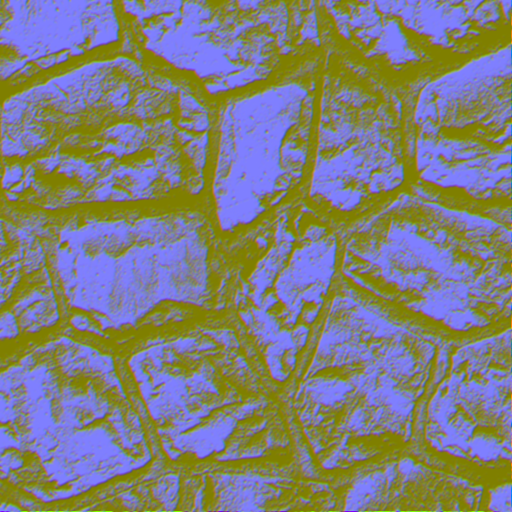
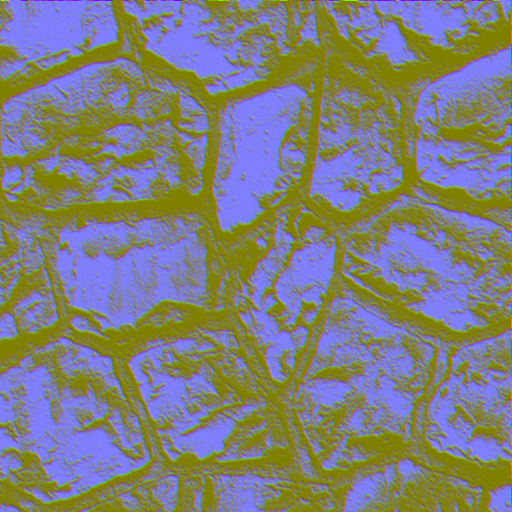
fixed inconnect dhdv value in gradient.cs added tools/codelab/extract_alpha.cs for extract alpha channel to rgb channel fixed incorrect links in index.html added basic parallax effect support in demo_derivative_maps.html

Changed region(s): [[0.0, 0.0, 1.0, 1.0], [0.0938, 0.0, 0.125, 0.0312]]

diff --git a/public/exp3/demo_derivative_maps.html b/public/exp3/demo_derivative_maps.html
@@ -6,7 +6,7 @@
 </head>
 <body>
     <div class="exp3.info">
-    Derivative Maps based on <a class="exp3.link" href="http://www.rorydriscoll.com/2012/01/11/derivative-maps/">rory's</a> blog post.
+    Derivative (with Parallax) Maps based on <a class="exp3.link" href="http://www.rorydriscoll.com/2012/01/11/derivative-maps/">rory's</a> blog post.
 <pre>
 Controls:
 - Rotate : Mouse Left Button
@@ -28,6 +28,7 @@ function Config()
 {
     this.bumpness = 8.0;
     this.specular = true;
+    this.parallax = true;
     this.texture = 0;
     this.mesh = 0;
     
@@ -35,6 +36,18 @@ function Config()
     
     var f;
     
+    f = gui.addFolder( "Material" );
+    f.add( this, "texture", { pyramids: 0, brick: 1, wall002: 2 } )
+        .onFinishChange( function( val ) { material.uniforms.heightMap.value = textures[val]; } );
+    f.add( this, "bumpness", 1.0, 16.0 ).step( 0.5 )
+        .onChange( function( val ) { material.uniforms.bumpness.value = val; } );
+    f.add( this, "parallax" )
+        .onChange( function( val ) { material.uniforms.useParallax.value = val ? 1.0 : 0.0; } );
+    f.add( this, "specular" )
+        .onChange( function( val ) { material.uniforms.useSpecular.value = val ? 1.0 : 0.0; } );
+    
+    f.open();
+
     f = gui.addFolder( "Scene" )
     f.add( this, "mesh", { cube: 0, cone: 1, sphere: 2,  } )
         .onFinishChange( function( val ) { 
@@ -44,16 +57,6 @@ function Config()
     
     f.open();
     
-    f = gui.addFolder( "Material" );
-    f.add( this, "texture", { pyramids: 0, wall002: 1,  } )
-        .onFinishChange( function( val ) { material.uniforms.heightMap.value = textures[val]; } );
-    f.add( this, "bumpness", 1.0, 16.0 ).step( 0.5 )
-        .onChange( function( val ) { material.uniforms.bumpness.value = val; } );
-    f.add( this, "specular" )
-        .onChange( function( val ) { material.uniforms.specular.value = val ? 1.0 : 0.0; } );
-    
-    f.open();
-
 }
 
 function on_init( )
@@ -67,13 +70,15 @@ function on_init( )
     
     this.defaults.camera.position.set( 0.0, 0.0, 200.0 );
     
-    var texpaths = [ "assets/pyramids_grad.png", "assets/wall002_grad.png" ];
+    var texpaths = [ "assets/pyramids_grad.png", "assets/brick_grad.png", "assets/wall002_grad.png" ];
     
     for ( var i = 0; i < texpaths.length; ++i )
     {
         var tex = THREE.ImageUtils.loadTexture( texpaths[i] );
         tex.anisotropy = this.renderer.getMaxAnisotropy();
         tex.minFilter = tex.magFilter = THREE.LinearFilter;
+        tex.wrapS = THREE.RepeatWrapping;
+        tex.wrapT = THREE.RepeatWrapping;
         textures.push( tex );
     }
     
@@ -81,7 +86,8 @@ function on_init( )
         uniforms : { 
             heightMap: { type: "t", value: textures[0] },
             bumpness : { type: "f", value: config.bumpness },
-            specular : { type: "f", value: config.specular ? 1.0 : 0.0 },
+            useSpecular : { type: "f", value: config.specular ? 1.0 : 0.0 },
+            useParallax : { type: "f", value: config.parallax ? 1.0 : 0.0 },
             camPos : { type: "v3", value: this.defaults.camera.position },
         },
         vertexShader   : this.loadText( "./assets/derivativemaps.vs" ),
@@ -172,7 +178,7 @@ function on_mousemove( event )
         else if ( event.button == 2 )
         {
             var viewZ =  mouseState.viewZ + 0.5 * mouseState.deltaY;
-            if ( viewZ < 100 ) viewZ = 100;
+            if ( viewZ < 80 ) viewZ = 80;
             if ( viewZ > 400 ) viewZ = 400;
             this.defaults.camera.position.z = viewZ;
         }

diff --git a/public/exp3/index.html b/public/exp3/index.html
@@ -2,13 +2,14 @@
 <html lang="en">
 <head>
     <title>exp3 - index</title>
+    <base href="./exp3/" target="_blank" />
     <meta charset="utf-8">
 </head>
 <body>
     <ul>
-        <li><a target="_blank" href="basic_cube.html">basic_cube.html</a></li>
-        <li><a target="_blank" href="basic_shader.html">basic_shader.html</a></li>
-        <li><a target="_blank" href="demo_derivative_maps.html">demo_derivative_maps.html</a></li>
+        <li><a href="basic_cube.html">basic_cube.html</a></li>
+        <li><a href="basic_shader.html">basic_shader.html</a></li>
+        <li><a href="demo_derivative_maps.html">demo_derivative_maps.html</a></li>
     </ul>
 </body>
 </html>

diff --git a/public/exp3/tools/codelab/gradient.cs b/public/exp3/tools/codelab/gradient.cs
@@ -11,9 +11,9 @@ void Render(Surface dst, Surface src, Rectangle rect)
     ColorBgra tapdx;
     for (int y = rect.Top; y < rect.Bottom; y++)
     {
-        int dy = y + 1;
-        if ( dy >= src.Bounds.Bottom )
-            dy = src.Bounds.Top + dy % src.Bounds.Height;
+        int dy = y - 1;
+        if ( dy < src.Bounds.Top )
+            dy = src.Bounds.Bottom - 1;
         
         for (int x = rect.Left; x < rect.Right; x++)
         {
@@ -25,9 +25,9 @@ void Render(Surface dst, Surface src, Rectangle rect)
             tapdx = src[dx,y];
             tapdy = src[x,dy];
             
-            double h = (double)tap.R;
-            double hdx = (double)tapdx.R;
-            double hdy = (double)tapdy.R;
+            double h = (double)tap.B;
+            double hdx = (double)tapdx.B;
+            double hdy = (double)tapdy.B;
             
             // approximate the gradient with forward difference: delta = a[n+1] - a[n]
             tap.R = (byte)( (hdx - h) * 0.5 + 127.5 );

diff --git a/public/exp3/tools/codelab/extract_alpha.cs b/public/exp3/tools/codelab/extract_alpha.cs
@@ -1,0 +1,24 @@
+#region UICode
+#endregion
+
+
+// Here is the main render loop function
+void Render(Surface dst, Surface src, Rectangle rect)
+{
+    for (int y = rect.Top; y < rect.Bottom; y++)
+    {
+        for (int x = rect.Left; x < rect.Right; x++)
+        {
+            ColorBgra CurrentPixel = src[x,y];
+
+            // TODO: Add additional pixel processing code here
+            CurrentPixel.R = CurrentPixel.A;
+            CurrentPixel.G = CurrentPixel.A;
+            CurrentPixel.B = CurrentPixel.A;
+            CurrentPixel.A = 255;
+
+            dst[x,y] = CurrentPixel;
+        }
+    }
+}
+
